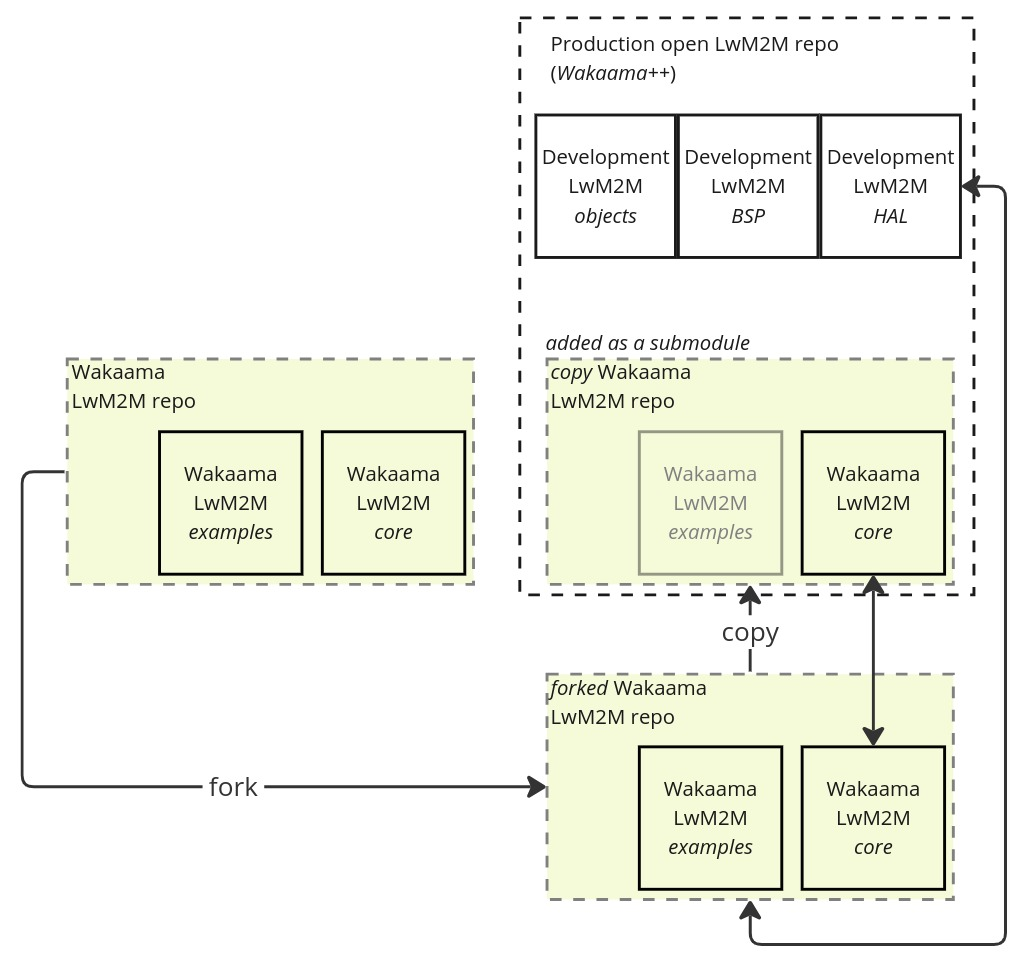
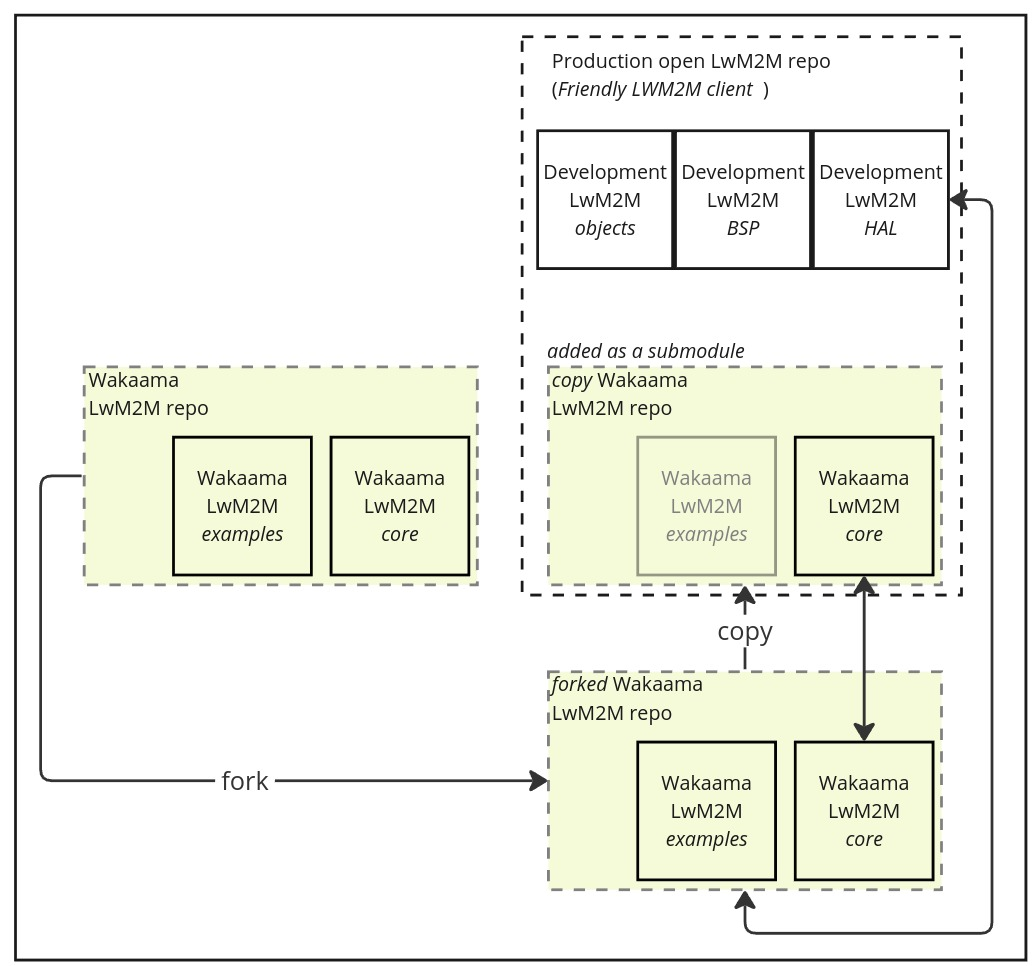
SN-1485 Removed information about developer repo

Changed region(s): [[0.0, 0.0, 1.0, 1.0], [0.0, 0.3727, 0.5571, 0.8696], [0.4952, 0.4348, 0.5261, 0.4969]]

diff --git a/examples/objects.cpp b/examples/objects.cpp
@@ -55,7 +55,7 @@ void securityInit(WppClient &client) {
         security->set<BOOL_T>(Lwm2mSecurity::BOOTSTRAP_SERVER_1, true);
         security->set<INT_T>(Lwm2mSecurity::CLIENT_HOLD_OFF_TIME_11, 10);
         #if DTLS_WITH_PSK
-        string pskId = "SINAI_TEST_DEV_ID";
+        string pskId = "FRIENDLY_TEST_DEV_ID";
         security->set<INT_T>(Lwm2mSecurity::SECURITY_MODE_2, LWM2M_SECURITY_MODE_PRE_SHARED_KEY);
         security->set(Lwm2mSecurity::PUBLIC_KEY_OR_IDENTITY_3, OPAQUE_T(pskId.begin(), pskId.end()));
         security->set(Lwm2mSecurity::SECRET_KEY_5, OPAQUE_T {0x00, 0x11, 0x22, 0x33, 0x44, 0x55, 0x66, 0x77, 0x88, 0x99, 0x99, 0x88, 0x77, 0x66, 0x55, 0x44});
@@ -67,7 +67,7 @@ void securityInit(WppClient &client) {
         url = "coaps://demodm.friendly-tech.com:"; //"coaps://leshan.eclipseprojects.io:";
         #if DTLS_WITH_PSK
             url += "5684";
-            string pskId = "SINAI_TEST_DEV_ID";
+            string pskId = "FRIENDLY_TEST_DEV_ID";
             security->set<INT_T>(Lwm2mSecurity::SECURITY_MODE_2, LWM2M_SECURITY_MODE_PRE_SHARED_KEY);
             security->set(Lwm2mSecurity::PUBLIC_KEY_OR_IDENTITY_3, OPAQUE_T(pskId.begin(), pskId.end()));
             //00112233445566778899998877665544

diff --git a/utils/object_maker/object_maker.py b/utils/object_maker/object_maker.py
@@ -104,7 +104,7 @@ def main():
                          "1 - the path to the folder contain existing Object\n"
                          "2 - the path to the xml file contain the new data of the Object\n"
                          "For example: object_maker.py -c "
-                         "D:\\2305-WakaamaPlus\\wpp\\registry\\objects\\o_4_connectivity_monitoring_v13 "
+                         "D:\\Client\\wpp\\registry\\objects\\o_4_connectivity_monitoring_v13 "
                          "./new_object_data.xml")
         if not OC.ObjectChanger(os.path.normpath(args[0]), args[1]).change():
             sys.exit(1)
@@ -114,7 +114,7 @@ def main():
         if len(args) != 1:
             parser.error("please, provide the path to the folder contain existing Object to remove\n"
                          "For example: object_maker.py -r "
-                         "D:\\2305-WakaamaPlus\\wpp\\registry\\objects\\o_4_connectivity_monitoring_v13")
+                         "D:\\Client\\wpp\\registry\\objects\\o_4_connectivity_monitoring_v13")
         if not OR.ObjectRemover(os.path.normpath(args[0])).remove_object():
             sys.exit(1)
 

diff --git a/examples/main.cpp b/examples/main.cpp
@@ -44,7 +44,7 @@ int main() {
 
 	// Client initialization
 	cout << endl << "---- Creating WppClient ----" << endl;
-	string clientName = "sinaiVs";
+	string clientName = "Lwm2mClient";
 	#if DTLS_WITH_PSK
 	clientName += "PSK";
 	#elif DTLS_WITH_RPK

diff --git a/wpp/registry/objects/o_4_connectivity_monitoring/ConnectivityMonitoring.cpp b/wpp/registry/objects/o_4_connectivity_monitoring/ConnectivityMonitoring.cpp
@@ -1,7 +1,7 @@
 /*
  * ConnectivityMonitoring
  * Generated on: 2023-11-02 16:57:15
- * Created by: SinaiR&D
+ * Created by: Sinai RnD
  */
 
 #include "o_4_connectivity_monitoring/ConnectivityMonitoring.h"

diff --git a/wpp/registry/objects/o_2_lwm2m_access_control/Lwm2mAccessControl.cpp b/wpp/registry/objects/o_2_lwm2m_access_control/Lwm2mAccessControl.cpp
@@ -1,7 +1,7 @@
 /*
  * Lwm2mAccessControl
  * Generated on: 2023-11-03 15:05:47
- * Created by: SinaiR&D
+ * Created by: Sinai RnD
  */
 
 #include "o_2_lwm2m_access_control/Lwm2mAccessControl.h"

diff --git a/wpp/registry/objects/o_4_connectivity_monitoring/ConnectivityMonitoring.h b/wpp/registry/objects/o_4_connectivity_monitoring/ConnectivityMonitoring.h
@@ -1,7 +1,7 @@
 /*
  * ConnectivityMonitoring
  * Generated on: 2023-11-02 16:57:15
- * Created by: SinaiR&D
+ * Created by: Sinai RnD
  */
 
 #ifndef WPP_O_4_CONNECTIVITY_MONITORING_H

diff --git a/wpp/registry/objects/o_5_firmware_update/FirmwareUpdate.cpp b/wpp/registry/objects/o_5_firmware_update/FirmwareUpdate.cpp
@@ -1,7 +1,7 @@
 /*
  * FirmwareUpdate
  * Generated on: 2024-04-03 15:26:42
- * Created by: SinaiR&D
+ * Created by: Sinai RnD
  */
 
 #include "o_5_firmware_update/FirmwareUpdate.h"

diff --git a/wpp/registry/objects/m_0_lwm2m_security/Lwm2mSecurity.cpp b/wpp/registry/objects/m_0_lwm2m_security/Lwm2mSecurity.cpp
@@ -1,7 +1,7 @@
 /*
  * Lwm2mSecurity
  * Generated on: 2023-11-02 16:43:32
- * Created by: SinaiR&D
+ * Created by: Sinai RnD
  */
 
 #include "m_0_lwm2m_security/Lwm2mSecurity.h"

diff --git a/wpp/registry/objects/o_2_lwm2m_access_control/Lwm2mAccessControl.h b/wpp/registry/objects/o_2_lwm2m_access_control/Lwm2mAccessControl.h
@@ -1,7 +1,7 @@
 /*
  * Lwm2mAccessControl
  * Generated on: 2023-11-03 15:05:47
- * Created by: SinaiR&D
+ * Created by: Sinai RnD
  */
 
 #ifndef WPP_O_2_LWM2M_ACCESS_CONTROL_H

diff --git a/wpp/registry/objects/m_1_lwm2m_server/Lwm2mServer.cpp b/wpp/registry/objects/m_1_lwm2m_server/Lwm2mServer.cpp
@@ -1,7 +1,7 @@
 /*
  * Lwm2mServer
  * Generated on: 2023-11-02 16:41:01
- * Created by: SinaiR&D
+ * Created by: Sinai RnD
  */
 
 #include "m_1_lwm2m_server/Lwm2mServer.h"

diff --git a/wpp/registry/objects/o_3339_audio_clip/AudioClip.cpp b/wpp/registry/objects/o_3339_audio_clip/AudioClip.cpp
@@ -1,7 +1,7 @@
 /*
  * AudioClip
  * Generated on: 2024-03-11 13:52:27
- * Created by: SinaiR&D
+ * Created by: Sinai RnD
  */
 
 #include "o_3339_audio_clip/AudioClip.h"

diff --git a/wpp/registry/objects/o_5_firmware_update/FirmwareUpdate.h b/wpp/registry/objects/o_5_firmware_update/FirmwareUpdate.h
@@ -1,7 +1,7 @@
 /*
  * FirmwareUpdate
  * Generated on: 2024-04-03 15:26:42
- * Created by: SinaiR&D
+ * Created by: Sinai RnD
  */
 
 #ifndef WPP_O_5_FIRMWARE_UPDATE_H
